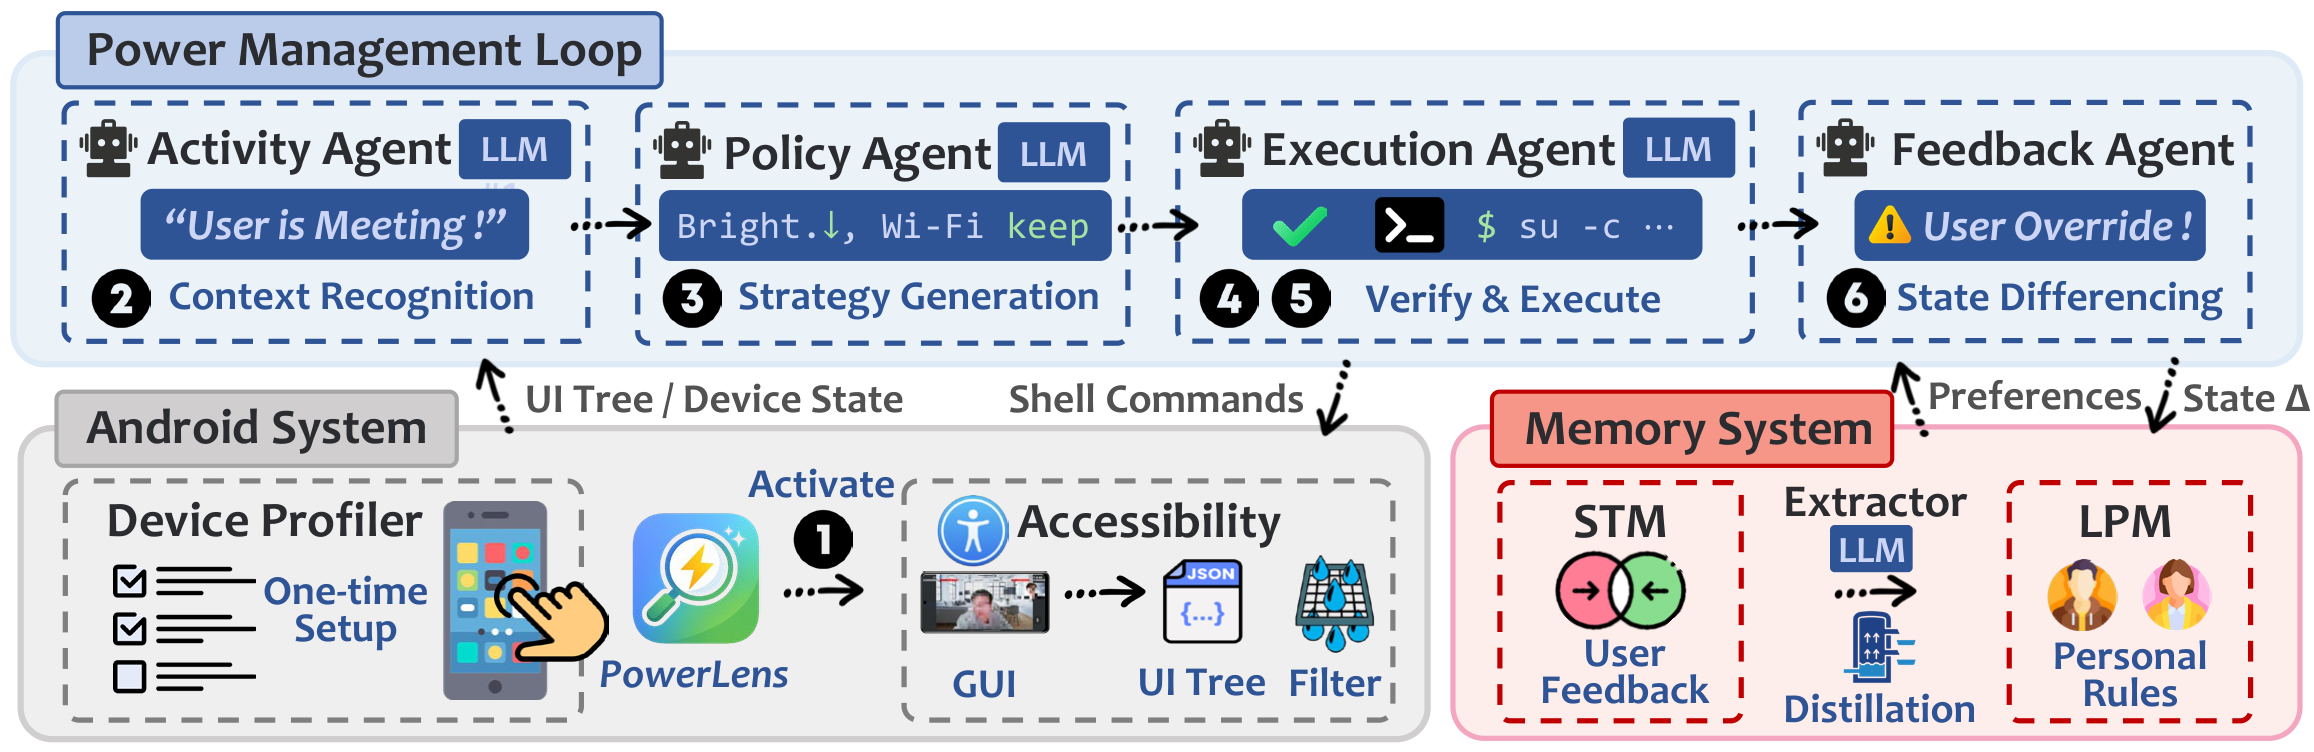
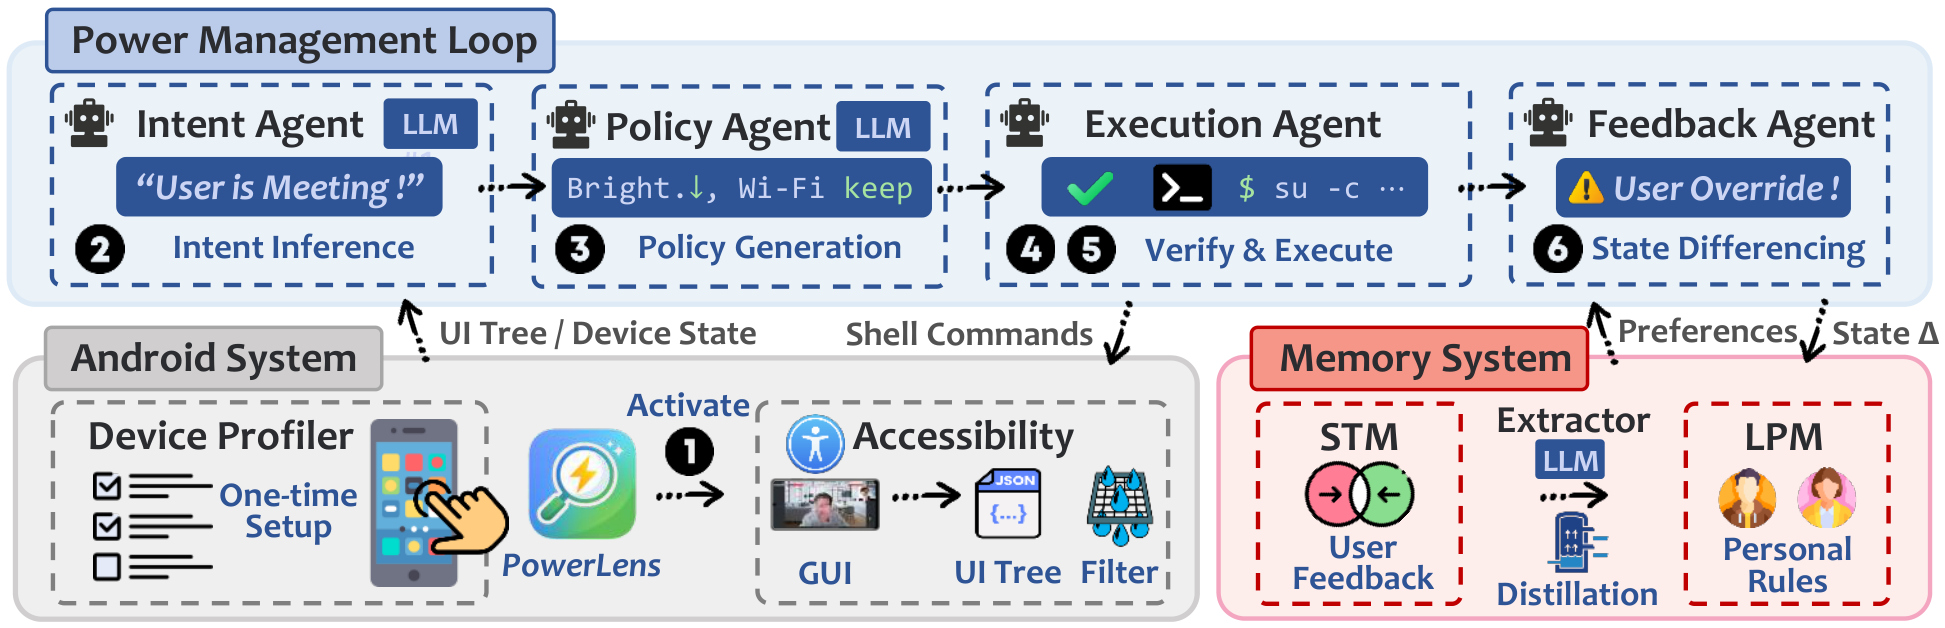
Sync project page with revised paper: Intent Agent (was Activity), deterministic Execution (was 2 LLM calls), updated overview/memory figures, 8.7/10 satisfaction

diff --git a/index.html b/index.html
@@ -550,7 +550,7 @@
         The key idea is that LLMs' commonsense reasoning can bridge the semantic gap between user activities and system parameters, enabling zero-shot, context-aware policy generation that adapts to individual preferences through implicit feedback.
         PowerLens employs a multi-agent architecture that recognizes user context from UI semantics and generates holistic power policies across 18 device parameters.
         A PDL-based constraint framework verifies every action before execution, while a two-tier memory system learns individualized preferences from implicit user overrides through confidence-based distillation, requiring no explicit configuration and converging within 3&ndash;5 days.
-        Extensive experiments on a rooted Android device show that PowerLens achieves 81.7% action accuracy and 38.8% energy saving over stock Android, outperforming rule-based and LLM-based baselines, with high user satisfaction, fast preference convergence, and strong safety guarantees, with the system itself consuming only 0.5% of daily battery capacity.
+        Extensive experiments on a rooted Android device show that PowerLens achieves 81.7% action accuracy and 38.8% energy saving over stock Android, outperforming rule-based and LLM-based baselines, with an 8.7/10 user satisfaction rating, fast preference convergence, and strong safety guarantees, with the system itself consuming only 0.5% of daily battery capacity.
       </p>
     </div>
   </div>
@@ -601,15 +601,15 @@
     <p class="section-lead">A multi-agent pipeline that observes, decides, validates, and learns from every interaction.</p>
     <div class="img-card">
       <img src="figures/overview.png" alt="PowerLens system architecture">
-      <p class="img-caption">PowerLens system overview. Each cycle: &#10102; Accessibility captures UI tree, &#10103; Activity Agent recognizes context, &#10104; Policy Agent generates strategy, &#10105;&#10106; Execution Agent verifies and applies via shell commands, &#10107; Feedback Agent detects user overrides. The Memory System stores preferences for personalization.</p>
+      <p class="img-caption">PowerLens system overview. Each cycle: &#10102; Accessibility captures UI tree, &#10103; Intent Agent infers usage intent, &#10104; Policy Agent generates policy, &#10105;&#10106; Execution Agent verifies and applies via shell commands, &#10107; Feedback Agent detects user overrides. The Memory System stores preferences for personalization.</p>
     </div>
 
     <div class="pipeline-steps">
       <div class="pipeline-step">
         <div class="step-icon"><i class="fas fa-eye"></i></div>
         <div class="step-number">Agent 1</div>
-        <div class="step-title">Activity Agent</div>
-        <p class="step-desc">Recognizes current user activity from UI semantics and system state. Outputs activity type, sub-activity, criticality level, and a context signature for memory retrieval.</p>
+        <div class="step-title">Intent Agent</div>
+        <p class="step-desc">Infers the user's fine-grained intent from UI semantics and system state. Outputs usage category, fine-grained intent, criticality level, and a context signature for memory retrieval.</p>
         <span class="step-badge badge-llm">LLM Call</span>
       </div>
       <div class="pipeline-step">
@@ -623,8 +623,8 @@
         <div class="step-icon"><i class="fas fa-shield-halved"></i></div>
         <div class="step-number">Agent 3</div>
         <div class="step-title">Execution Agent</div>
-        <p class="step-desc">Verifies each action against PDL constraints and device capabilities (LLM call 3), then generates root shell commands (LLM call 4). Two-stage design prevents hallucinated reasoning from leaking into commands.</p>
-        <span class="step-badge badge-llm">2 LLM Calls</span>
+        <p class="step-desc">Verifies each action against PDL constraints and device capabilities, then compiles approved actions into root shell commands by deterministic table lookup&mdash;no LLM&mdash;structurally precluding hallucinated values at execution.</p>
+        <span class="step-badge badge-det">Deterministic</span>
       </div>
       <div class="pipeline-step">
         <div class="step-icon"><i class="fas fa-arrows-rotate"></i></div>
@@ -712,7 +712,7 @@
       <div class="pipeline-step">
         <div class="step-icon"><i class="fas fa-diagram-project"></i></div>
         <div class="step-title">Pipeline Monitor</div>
-        <p class="step-desc">Observe the 4-agent pipeline (Activity &rarr; Policy &rarr; Exec &rarr; Feedback) with live status indicators showing which agent is active.</p>
+        <p class="step-desc">Observe the 4-agent pipeline (Intent &rarr; Policy &rarr; Exec &rarr; Feedback) with live status indicators showing which agent is active.</p>
       </div>
       <div class="pipeline-step">
         <div class="step-icon"><i class="fas fa-sliders"></i></div>
